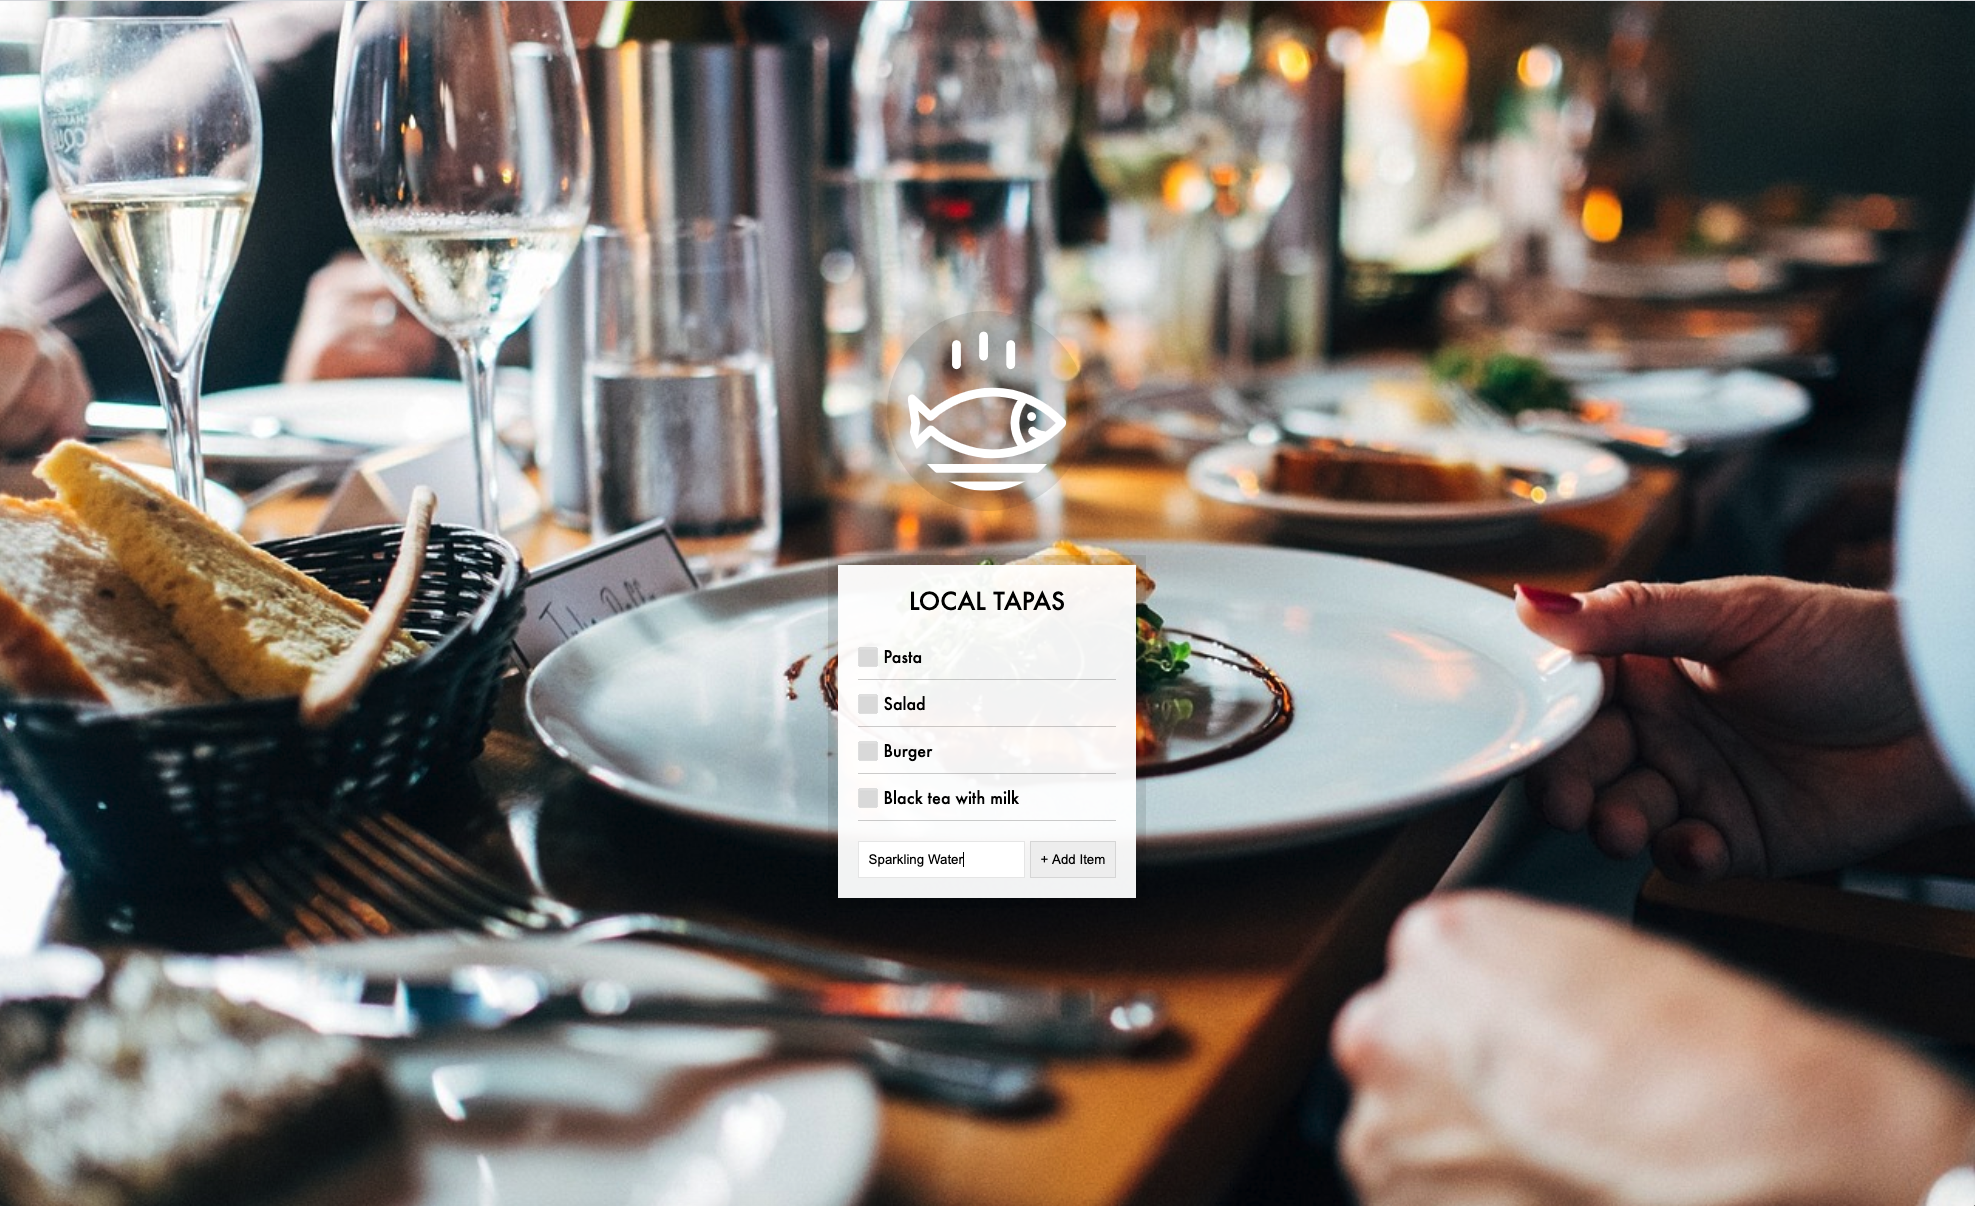
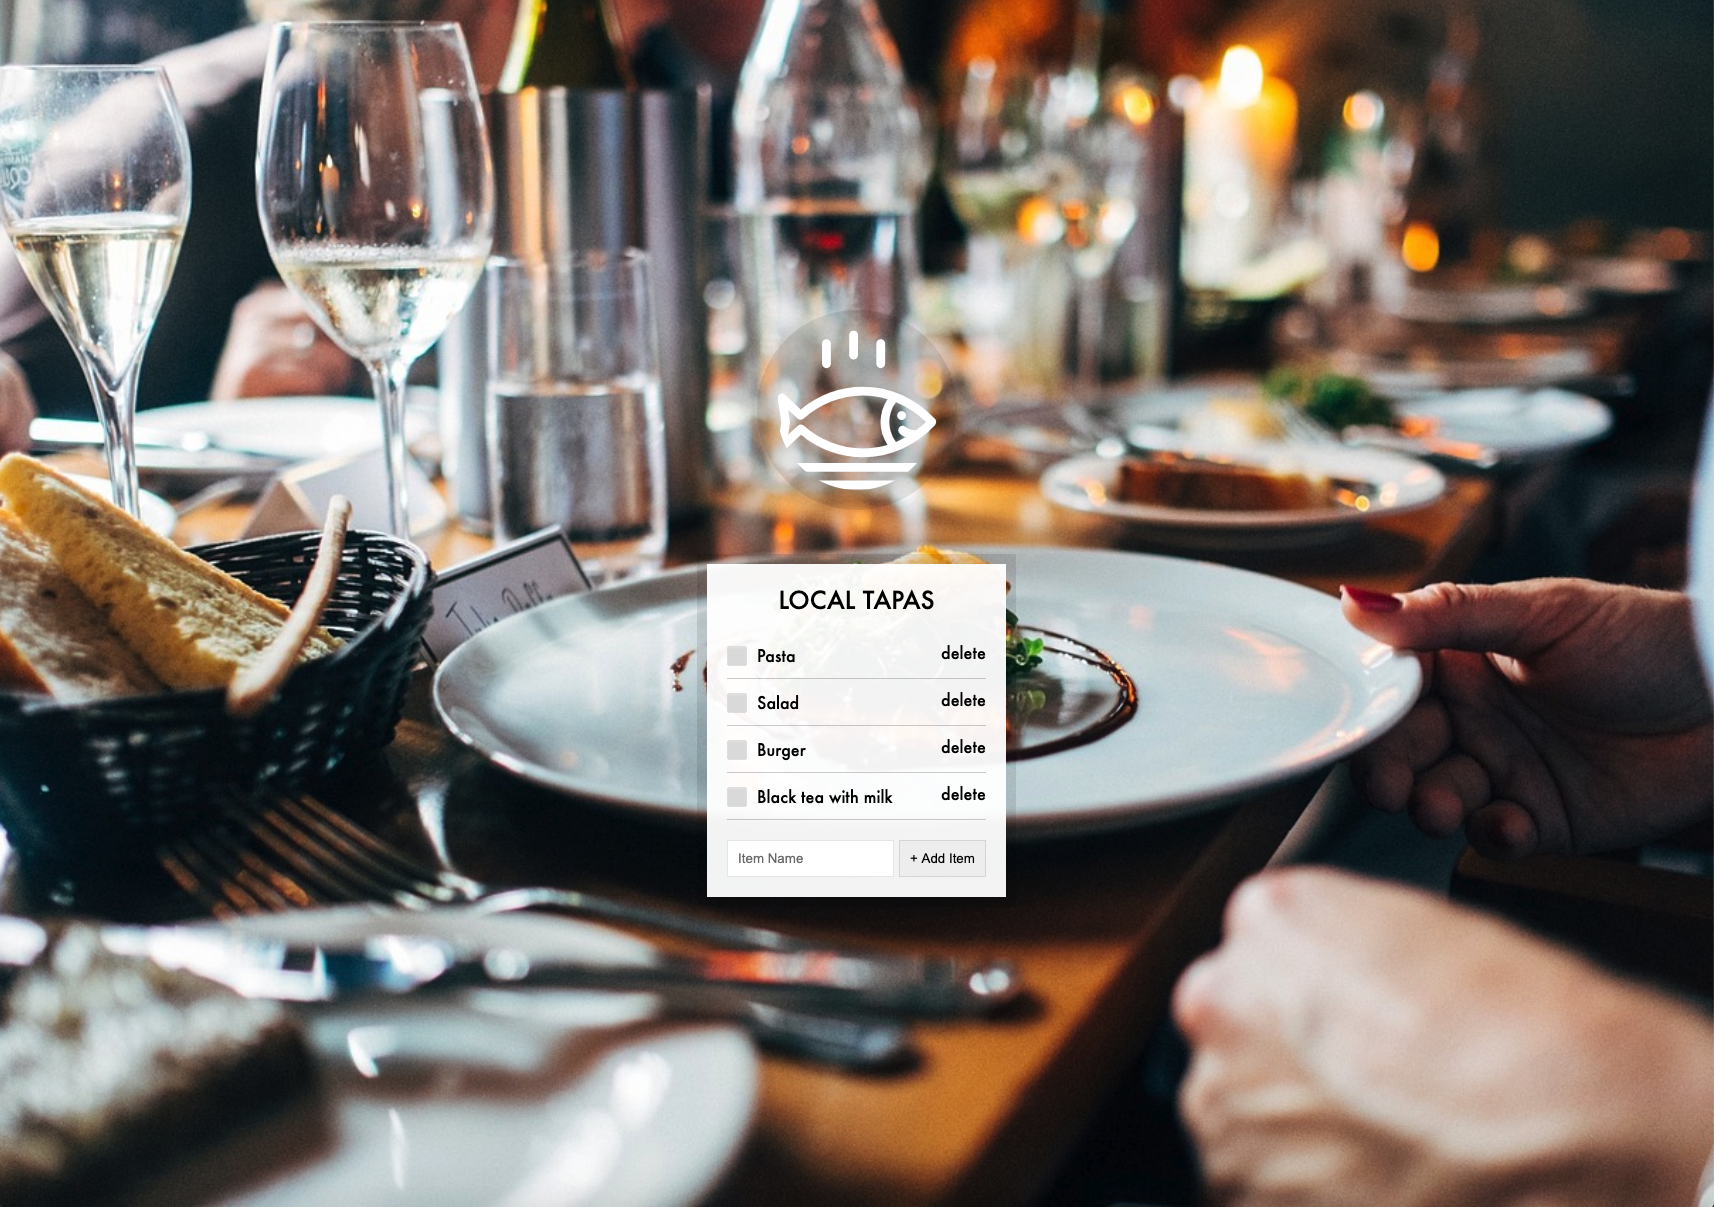
update exercise 15

diff --git a/15 - LocalStorage/index.html b/15 - LocalStorage/index.html
@@ -11,7 +11,14 @@
       https://thenounproject.com/search/?q=fish&i=589236
    -->
 
-   <svg xmlns="http://www.w3.org/2000/svg" xmlns:xlink="http://www.w3.org/1999/xlink" version="1.1" x="0px" y="0px" viewBox="0 0 512 512" enable-background="new 0 0 512 512" xml:space="preserve"><g><path d="M495.9,425.3H16.1c-5.2,0-10.1,2.9-12.5,7.6c-2.4,4.7-2.1,10.3,0.9,14.6l39,56.4c2.6,3.8,7,6.1,11.6,6.1h401.7   c4.6,0,9-2.3,11.6-6.1l39-56.4c3-4.3,3.3-9.9,0.9-14.6C506,428.2,501.1,425.3,495.9,425.3z M449.4,481.8H62.6L43,453.6H469   L449.4,481.8z"/><path d="M158.3,122c7.8,0,14.1-6.3,14.1-14.1V43.4c0-7.8-6.3-14.1-14.1-14.1c-7.8,0-14.1,6.3-14.1,14.1v64.5   C144.2,115.7,150.5,122,158.3,122z"/><path d="M245.1,94.7c7.8,0,14.1-6.3,14.1-14.1V16.1c0-7.8-6.3-14.1-14.1-14.1C237.3,2,231,8.3,231,16.1v64.5   C231,88.4,237.3,94.7,245.1,94.7z"/><path d="M331.9,122c7.8,0,14.1-6.3,14.1-14.1V43.4c0-7.8-6.3-14.1-14.1-14.1s-14.1,6.3-14.1,14.1v64.5   C317.8,115.7,324.1,122,331.9,122z"/><path d="M9.6,385.2c5.3,2.8,11.8,1.9,16.2-2.2l50.6-47.7c56.7,46.5,126.6,71.9,198.3,71.9c0,0,0,0,0,0   c87.5,0,169.7-36.6,231.4-103.2c5-5.4,5-13.8,0-19.2c-61.8-66.5-144-103.2-231.4-103.2c-72,0-142.2,25.6-199,72.5l-50-47.1   c-4.4-4.1-10.9-5-16.2-2.2c-5.3,2.8-8.3,8.7-7.4,14.6l11.6,75L2.2,370.6C1.3,376.5,4.2,382.4,9.6,385.2z M380.9,230.8   c34.9,14.3,67.2,35.7,95.3,63.6c-10.1,10-20.8,19.2-31.9,27.5c-22.4-3.3-29.6-8.8-30.7-9.7c-4-5.7-11.8-7.7-18.1-4.4   c-6.9,3.6-9.5,12.2-5.9,19.1c1.9,3.5,7.3,10.3,22.4,16c-10.1,5.7-20.5,10.7-31.1,15.1C352.4,320.2,352.4,268.6,380.9,230.8z    M36.3,255.6l29.4,27.7c5.3,5,13.6,5.1,19.1,0.3c53.2-47.6,120.7-73.7,190-73.7c26.9,0,53.2,3.9,78.5,11.3   c-29.3,44.6-29.3,102,0,146.6c-25.3,7.4-51.6,11.3-78.5,11.3c-69,0-136.3-26-189.4-73.2c-2.7-2.4-13.4-6.3-19.1,0.3l-30.1,28.3   l5.7-40C42.2,293,36.3,255.6,36.3,255.6z"/><circle cx="398.8" cy="273.8" r="14.1"/></g></svg>
+   <svg xmlns="http://www.w3.org/2000/svg" xmlns:xlink="http://www.w3.org/1999/xlink" version="1.1" x="0px" y="0px" viewBox="0 0 512 512" enable-background="new 0 0 512 512" xml:space="preserve">
+    <g><path d="M495.9,425.3H16.1c-5.2,0-10.1,2.9-12.5,7.6c-2.4,4.7-2.1,10.3,0.9,14.6l39,56.4c2.6,3.8,7,6.1,11.6,6.1h401.7   c4.6,0,9-2.3,11.6-6.1l39-56.4c3-4.3,3.3-9.9,0.9-14.6C506,428.2,501.1,425.3,495.9,425.3z M449.4,481.8H62.6L43,453.6H469   L449.4,481.8z"/>
+      <path d="M158.3,122c7.8,0,14.1-6.3,14.1-14.1V43.4c0-7.8-6.3-14.1-14.1-14.1c-7.8,0-14.1,6.3-14.1,14.1v64.5   C144.2,115.7,150.5,122,158.3,122z"/>
+      <path d="M245.1,94.7c7.8,0,14.1-6.3,14.1-14.1V16.1c0-7.8-6.3-14.1-14.1-14.1C237.3,2,231,8.3,231,16.1v64.5   C231,88.4,237.3,94.7,245.1,94.7z"/>
+      <path d="M331.9,122c7.8,0,14.1-6.3,14.1-14.1V43.4c0-7.8-6.3-14.1-14.1-14.1s-14.1,6.3-14.1,14.1v64.5   C317.8,115.7,324.1,122,331.9,122z"/>
+      <path d="M9.6,385.2c5.3,2.8,11.8,1.9,16.2-2.2l50.6-47.7c56.7,46.5,126.6,71.9,198.3,71.9c0,0,0,0,0,0   c87.5,0,169.7-36.6,231.4-103.2c5-5.4,5-13.8,0-19.2c-61.8-66.5-144-103.2-231.4-103.2c-72,0-142.2,25.6-199,72.5l-50-47.1   c-4.4-4.1-10.9-5-16.2-2.2c-5.3,2.8-8.3,8.7-7.4,14.6l11.6,75L2.2,370.6C1.3,376.5,4.2,382.4,9.6,385.2z M380.9,230.8   c34.9,14.3,67.2,35.7,95.3,63.6c-10.1,10-20.8,19.2-31.9,27.5c-22.4-3.3-29.6-8.8-30.7-9.7c-4-5.7-11.8-7.7-18.1-4.4   c-6.9,3.6-9.5,12.2-5.9,19.1c1.9,3.5,7.3,10.3,22.4,16c-10.1,5.7-20.5,10.7-31.1,15.1C352.4,320.2,352.4,268.6,380.9,230.8z    M36.3,255.6l29.4,27.7c5.3,5,13.6,5.1,19.1,0.3c53.2-47.6,120.7-73.7,190-73.7c26.9,0,53.2,3.9,78.5,11.3   c-29.3,44.6-29.3,102,0,146.6c-25.3,7.4-51.6,11.3-78.5,11.3c-69,0-136.3-26-189.4-73.2c-2.7-2.4-13.4-6.3-19.1,0.3l-30.1,28.3   l5.7-40C42.2,293,36.3,255.6,36.3,255.6z"/>
+      <circle cx="398.8" cy="273.8" r="14.1"/>
+    </g></svg>
 
   <div class="wrapper">
     <h2>LOCAL TAPAS</h2>

diff --git a/15 - LocalStorage/script.js b/15 - LocalStorage/script.js
@@ -3,16 +3,16 @@ const itemsList = document.querySelector('.plates');
 const items = JSON.parse(localStorage.getItem('items')) || [];
 
 function addItem(e) {
-  e.preventDefault();
+  e.preventDefault(); // stop the page form reloading. <form> is reload the page and send the data to external source, generally is your server side.
   const text = (this.querySelector('[name=item]')).value;
   const item = {
-    text, 
+    text, // = text: text
     done: false
   };
   items.push(item);
   populateList(items, itemsList);
   localStorage.setItem('item', JSON.stringify(items));
-  this.reset();
+  this.reset(); //insist it run second. this = <form> element. <form> has an attribute - reset() 
 }
 
 function populateList(plates = [], platesList) {
@@ -21,6 +21,7 @@ function populateList(plates = [], platesList) {
       <li>
         <input type="checkbox" data-index=${i} id="item${i}" ${plate.done ? 'checked' : ''} />
         <label for="item${i}">${plate.text}</label>
+        <span class='delbtn' data-index=${i}>delete<span> 
       </li>
     `;
   }).join('');
@@ -28,12 +29,26 @@ function populateList(plates = [], platesList) {
 
 
 function toggleDone(e) {
-  if(!e.target.matches('input')) return;
+  // 初始化一個存檔狀態
+  let save = false;
+  // 取得觸發元素的data-index值
   const el = e.target;
   const index = el.dataset.index;
-  items[index].done = !items[index].done;
-  localStorage.setItem('items', JSON.stringify(items));
-  populateList(items, itemsList);
+  // 判斷觸發元素，如果是input則為checkbox的狀態切換
+  if(e.target.matches('input')){
+    items[index].done = !items[index].done;
+    save = true;
+  }
+  // 如果是span則是透過splice刪除該物件
+  if(e.target.matches('span')){
+    items.splice(index, 1);
+    save = true;
+  }
+  // 判斷上方有做事才存擋
+  if(save){
+    localStorage.setItem('items', JSON.stringify(items));
+    populateList(items, itemsList);  
+  }
 }
 
 addItems.addEventListener('submit', addItem);

diff --git a/15 - LocalStorage/style.css b/15 - LocalStorage/style.css
@@ -1,6 +1,6 @@
 html {
   box-sizing: border-box;
-  background: url('../images/restaurant.jpg') center no-repeat;
+  background: url('images/restaurant.jpg') center no-repeat;
   background-size: cover;
   min-height: 100vh;
   display: flex;
@@ -76,4 +76,7 @@ h2 {
   padding: 10px;
   outline: 0;
   border: 1px solid rgba(0,0,0,0.1);
+}
+.delbtn {
+  cursor: pointer;
 }

diff --git a/15 - LocalStorage/README.md b/15 - LocalStorage/README.md
@@ -1,0 +1,70 @@
+# 15 - LocalStorage
+
+- 本章練習 LocalStorage 與 event delegation。使用場景是一個todo list，實現新增項目儲存在`localStorage`，以及刪除項目的功能。
+
+![](https://github.com/hoovivaf2e/javascript30/blob/master/15%20-%20LocalStorage/15_localstorage.png)
+
+## 介紹 localStorage
+是由html5所提供的一個web storage，擁有5MB的大小，可供程式設計者使用，無法跨域使用。localStorage 是以key-value方式儲存資料，所儲存的東西沒有限制。且localStorage的資料不會隨著使用者關閉瀏覽器而消失，除非使用者清空localStorage或程式設計者執行clear或removeItem，否則資料將一直存在。
+
+一般在瀏覽器端的儲存方式分為三種：`cookie`、`localStorage`跟 `SessionStorage`。以下說明三者的差異。
+
+| 特性          | Cookie               | LocalStorage               | SessionStorage             |
+| ----------- | ---------------------------------------- | -------------------------- | -------------------------- |
+| 生命週期        | 由Server端生成，可設置失效時間。若是browser生成，默認關閉browser後失效 | 除非被清除，否則永久保存               | 當前有效，關閉頁面或瀏覽器就會被刪除           |
+| 大小          | 4KB                                      | 5MB                        | 5MB                        |
+| 與server通信狀況 | 每次送HTTP請求時皆會存在Header中                   | 不參與Server通信                | 不參與Server通信                |
+| 儲存型態         | String              | String                     | String                      |
+| 使用時機        | 用戶登入訊息        | 購物車訊息                  | 表單頁面處理                 |
+
+
+## 使用到的語法 Javascript
+
+- `e.preventDefault()`: 停止與事件關聯的默認動作。
+在本章中使用`e.preventDefault()`是為了阻止按下enter後的頁面reload動作。
+因為透過`form`元素提交表單，會觸發`submit`事件。`submit`事件會reload頁面，並將資料傳送到server端。而當頁面reload的時候就會打斷接下來要做的事，導致無法執行`addItem()`。
+
+```javascript
+function addItem(e) {
+  e.preventDefault(); // 阻止submit之後的頁面reload
+  // 取得form中的 input name=item 的欄位值
+  const text = (this.querySelector('[name=item]')).value;
+  // 宣告要存入localstorage的物件：輸入的文字 與 是否勾選的狀態(done)
+  const item = {
+    text,
+    done: false
+  };
+  items.push(item);
+  populateList(items, itemsList);
+  localStorage.setItem('item', JSON.stringify(items));
+  // 清空輸入欄位
+  this.reset();
+}
+```
+
+- `event delegation`:   
+    ｜ 假設同時有很多DOM element都有相同的event handler，與其在每個DOM element上個別附加event handler，不如利用event bubbling的特性，統一在他們的ancestor的event handler處理。
+
+```javascript
+function toggleDone(e) {
+    // 偵測進來的點擊是input(checkbox)才動作
+    if (!e.target.matches('input')) return;
+    // 取得checkbox的data-index值
+    const el = e.target;
+    const index = el.dataset.index;
+    // 利用！來使done的狀態在true/false間切換
+    items[index].done = !items[index].done;
+    // 將更新後的狀態寫入localStorage中
+    localStorage.setItem('items', JSON.stringify(items));
+    // 更新列表
+    populateList(items, itemsList);
+}
+``` 
+
+這個介紹的非常清楚:
+
+* [Event Bubbling, Event Capturing 及 Event Delegation](https://shubo.io/event-bubbling-event-capturing-event-delegation/)
+
+* [Bubbling and capturing](https://javascript.info/bubbling-and-capturing)
+
+* [Event delegation](https://javascript.info/event-delegation)
